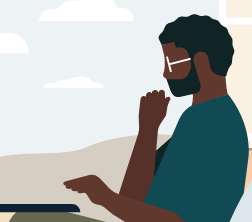
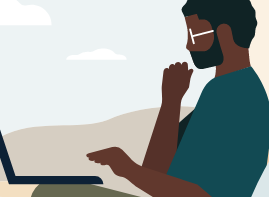
se agregaron varias mejoras en el login y proceso de la cookie

Changed region(s): [[0.0, 0.0, 1.0, 1.0]]

diff --git a/app/ultrabot/ultra_bot.py b/app/ultrabot/ultra_bot.py
@@ -77,7 +77,7 @@ def wait_for_linkedin_detected(max_attempts=5, wait_time=1, confidence=0.7):
     Returns:
         bool: True si la imagen está presente, False si no se encuentra después de todos los intentos
     """
-    linkedin_image = "app/ultrabot/images/accionesVentana/linkedinDetected.PNG"
+    linkedin_image = "app/ultrabot/images/accionesVentana/linkedinDetected.png"
     
     for attempt in range(max_attempts):
         if find_image(linkedin_image, confidence=confidence):
@@ -101,7 +101,7 @@ def check_welcome_screen_visible(max_attempts=3, wait_time=0.5, confidence=0.7):
     Returns:
         bool: True si la pantalla de bienvenida está visible (login falló), False si no
     """
-    welcome_image = "app/ultrabot/images/accionesVentana/welcomeUltra.PNG"
+    welcome_image = "app/ultrabot/images/accionesVentana/WelcomeUltra.png"
     
     for attempt in range(max_attempts):
         if find_image(welcome_image, confidence=confidence):
@@ -158,6 +158,7 @@ def login_with_ultra_credentials():
     Returns:
         bool: True si el login fue exitoso, False si falló después de 5 intentos
     """
+    print("🔐 Iniciando proceso de login...")
     # 🧩 Flujo normal de login
     credentials = get_ultra_credentials()
     if not credentials:
@@ -174,6 +175,7 @@ def login_with_ultra_credentials():
     # Intentar login hasta 5 veces
     max_attempts = 5
     for login_attempt in range(max_attempts):
+        print(f"🔄 Intento de login {login_attempt + 1}/{max_attempts}...")
         try:
             # Realizar el proceso de login
             if not _perform_login_attempt(email, password):
@@ -193,9 +195,11 @@ def login_with_ultra_credentials():
             # Verificar si welcomeUltra.PNG está visible (indica que el login falló)
             if not check_welcome_screen_visible(max_attempts=3, wait_time=0.5, confidence=0.7):
                 # Login exitoso (welcomeUltra.PNG no está visible)
+                print("✅ Login exitoso")
                 return True
             
             # Si llegamos aquí, el login falló (welcomeUltra.PNG está visible)
+            print(f"❌ Login falló en intento {login_attempt + 1}, reintentando...")
             # Si no es el último intento, cerrar ventana y reintentar
             if login_attempt < max_attempts - 1:
                 click_coordinates(1339, 10)
@@ -214,6 +218,7 @@ def login_with_ultra_credentials():
             continue
     
     # Si llegamos aquí, todos los intentos fallaron
+    print("❌ Login falló después de 5 intentos")
     messagebox.showerror(
         "Error de login",
         "No se pudo completar el login después de 5 intentos.\n\nVerifica tus credenciales y que Ultra esté funcionando correctamente."
@@ -922,22 +927,28 @@ class UltraBotThread(threading.Thread):
             MAX_ITERATIONS = 16
             TIEMPO_ESPERA = 7200
 
+        print(f"⚙ Configuración: {MAX_ITERATIONS} iteraciones, {TIEMPO_ESPERA}s de espera")
         iteration_count = 0
 
         #! Funciona bien
 
+        print("🗑 Limpiando base de datos...")
         clear_database()
+        print(f"📡 Obteniendo {MAX_ITERATIONS} cuentas del servidor...")
         accounts = fetch_accounts_from_server(MAX_ITERATIONS)
         
         if not accounts:
             messagebox.showerror("Error", "No se pudieron obtener cuentas del servidor. Verifica tu conexión y credenciales.")
             return
         
+        print(f"✅ Se obtuvieron {len(accounts)} cuentas del servidor")
         save_cookies_to_db(accounts)
 
         while self.running:
             
             if iteration_count >= MAX_ITERATIONS:
+                print(f"📊 Iteración {iteration_count}/{MAX_ITERATIONS} alcanzada, iniciando proceso de tabs...")
+                print("▶ Iniciando todas las tabs...")
                 click_europa_boton()
                 time.sleep(1)
                 click_europa_boton2()
@@ -954,6 +965,7 @@ class UltraBotThread(threading.Thread):
                     click_acept_actionTabs()
 
                 tiempo_por_parte = TIEMPO_ESPERA // 4
+                print(f"⏳ Esperando {tiempo_por_parte}s por parte (total: {TIEMPO_ESPERA}s)...")
                 time.sleep(tiempo_por_parte)
                 
                 # Constantes para el manejo de errores de LinkedIn
@@ -962,6 +974,7 @@ class UltraBotThread(threading.Thread):
                 COORD_ERROR_CLOSE = (915, 438)
                 
                 for parte in range(3):
+                    print(f"  📍 Parte {parte + 1}/3 del proceso...")
                     kill_ultra_processes(show_confirmation=False)
                     click_coordinates(1339, 10)
                     time.sleep(3) 
@@ -992,6 +1005,7 @@ class UltraBotThread(threading.Thread):
                 click_europa_boton2()
                 
 
+                print("⏹ Deteniendo todas las tabs...")
                 click_stop_all_tabs()  # ⏹ Detener todas las pestañas
                 time.sleep(2)
 
@@ -1000,6 +1014,7 @@ class UltraBotThread(threading.Thread):
                     click_acept_stop_actionTabs()
                     time.sleep(2)
 
+                print(f"🗑 Cerrando {MAX_ITERATIONS} ventanas...")
                 time.sleep(2)
                 for _ in range(MAX_ITERATIONS):
                     click_close_window()
@@ -1008,8 +1023,10 @@ class UltraBotThread(threading.Thread):
                 click_coordinates(1339, 10)
                 time.sleep(5)
                 
+                print("🔪 Eliminando procesos de Ultra...")
                 processes_killed = kill_ultra_processes(show_confirmation=False)
                 
+                print("🗑 Eliminando cache de Ultra...")
                 cache_deleted = False
                 max_cache_attempts = 3
                 
@@ -1017,8 +1034,10 @@ class UltraBotThread(threading.Thread):
                     cache_deleted = handle_delete_ultra_folder(show_confirmation=False, max_wait_time=45)
                     
                     if cache_deleted:
+                        print("✅ Cache eliminada exitosamente")
                         break
                     else:
+                        print(f"⚠ Intento {cache_attempt + 1}/{max_cache_attempts} de eliminar cache falló")
                         if cache_attempt < max_cache_attempts - 1:
                             time.sleep(5)
                             kill_ultra_processes(show_confirmation=False)
@@ -1027,10 +1046,12 @@ class UltraBotThread(threading.Thread):
                     messagebox.showerror("Error", "No se pudo eliminar la cache de Ultra después de 3 intentos. El proceso se detendrá.")
                     break
                 
+                print("🔄 Reintentando login después de limpieza...")
                 max_restart_attempts = 3
                 login_successful = False
                 
                 for restart_attempt in range(max_restart_attempts):
+                    print(f"  🔄 Intento de reinicio {restart_attempt + 1}/{max_restart_attempts}...")
                     if click_ultra_logo():
                         time.sleep(15)
                         if wait_for_login_interface(max_attempts=3, wait_time=15):
@@ -1059,6 +1080,7 @@ class UltraBotThread(threading.Thread):
                     messagebox.showerror("Error", "No se pudo completar el proceso de login después de varios intentos. Verifica que Ultra esté funcionando correctamente.")
                     break
                 
+                print("🔄 Reiniciando ciclo...")
                 clear_database()
                 accounts = fetch_accounts_from_server(MAX_ITERATIONS)
                 
@@ -1066,6 +1088,7 @@ class UltraBotThread(threading.Thread):
                     messagebox.showerror("Error", "No se pudieron obtener cuentas del servidor. Verifica tu conexión y credenciales.")
                     break
                 
+                print(f"✅ Se obtuvieron {len(accounts)} nuevas cuentas del servidor")
                 save_cookies_to_db(accounts)
                 
                 iteration_count = 0  # 🔄 Resetear contador para que vuelva a iniciar
@@ -1088,8 +1111,10 @@ class UltraBotThread(threading.Thread):
             
             # Validar que linkedinDetected.PNG esté presente antes de agregar cookie
             if not wait_for_linkedin_detected(max_attempts=5, wait_time=1, confidence=0.7):
+                print(f"⚠ LinkedIn no detectado para cookie ID {last_cookie_id}, saltando...")
                 continue
             
+            print(f"🍪 Procesando cookie ID {last_cookie_id}...")
             click_add_cookie()
             time.sleep(2)
             if not self.running:
@@ -1102,8 +1127,10 @@ class UltraBotThread(threading.Thread):
             time.sleep(0.5)
             
             if not find_and_click_input():
+                print(f"❌ Error al procesar cookie ID {last_cookie_id}")
                 last_cookie_id += 1
                 continue
+            print(f"✅ Cookie ID {last_cookie_id} procesada exitosamente")
             time.sleep(5)
             
 
@@ -1145,12 +1172,15 @@ class UltraBotRepetidasThread(threading.Thread):
         
     def run(self):
         global last_cookie_id
+        print("🚀 Iniciando UltraBot Repetidas...")
         time.sleep(3)
         
+        print("🖱 Buscando logo de Ultra...")
         if not click_ultra_logo(max_attempts=5, delay_between_attempts=2):
             messagebox.showerror("Error", "No se pudo hacer clic en el logo de Ultra después de varios intentos. Verifica que Ultra esté disponible.")
             return
         
+        print("⏳ Esperando carga de Ultra...")
         time.sleep(15)
         # click_europa_boton()
         # time.sleep(1)
@@ -1176,30 +1206,37 @@ class UltraBotRepetidasThread(threading.Thread):
             REPETITIONS_COUNT = 3
             TIEMPO_ESPERA = 7200
 
+        print(f"⚙ Configuración Repetidas: {ACCOUNTS_TO_REPEAT} cuentas, {REPETITIONS_COUNT} repeticiones, {TIEMPO_ESPERA}s de espera")
+        print("🗑 Limpiando base de datos...")
         clear_database()
+        print(f"📡 Obteniendo {ACCOUNTS_TO_REPEAT} cuentas del servidor...")
         accounts = fetch_accounts_from_server(ACCOUNTS_TO_REPEAT)
         
         if not accounts:
             messagebox.showerror("Error", "No se pudieron obtener cuentas del servidor. Verifica tu conexión y credenciales.")
             return
         
+        print(f"✅ Se obtuvieron {len(accounts)} cuentas del servidor")
         save_cookies_to_db(accounts)
 
         while self.running:
             # 🔄 Procesar cada cuenta y repetirla la cantidad de veces configurada
             last_cookie_id = 1
             total_accounts = len(accounts)
+            print(f"🔄 Procesando {total_accounts} cuentas con {REPETITIONS_COUNT} repeticiones cada una...")
             
             for account_index in range(total_accounts):
                 if not self.running:
                     break
                 
                 current_cookie_id = account_index + 1
+                print(f"📋 Procesando cuenta {current_cookie_id}/{total_accounts}...")
                 
                 for repetition in range(REPETITIONS_COUNT):
                     if not self.running:
                         break
                     
+                    print(f"  🔁 Repetición {repetition + 1}/{REPETITIONS_COUNT} de cuenta {current_cookie_id}...")
                     click_add_account()
                     time.sleep(10)
                     if not self.running:
@@ -1213,8 +1250,10 @@ class UltraBotRepetidasThread(threading.Thread):
                     
                     # Validar que linkedinDetected.PNG esté presente antes de agregar cookie
                     if not wait_for_linkedin_detected(max_attempts=5, wait_time=1, confidence=0.7):
+                        print(f"  ⚠ LinkedIn no detectado para cuenta {current_cookie_id}, repetición {repetition + 1}, saltando...")
                         continue
                     
+                    print(f"  🍪 Agregando cookie para cuenta {current_cookie_id}, repetición {repetition + 1}...")
                     click_add_cookie()
                     time.sleep(2)
                     if not self.running:
@@ -1227,14 +1266,17 @@ class UltraBotRepetidasThread(threading.Thread):
                     time.sleep(0.5)
                     
                     if not find_and_click_input(cookie_id_override=current_cookie_id):
+                        print(f"  ❌ Error al procesar cookie para cuenta {current_cookie_id}, repetición {repetition + 1}")
                         continue
                     
+                    print(f"  ✅ Cookie procesada exitosamente para cuenta {current_cookie_id}, repetición {repetition + 1}")
                     time.sleep(5)
 
             click_europa_boton()
             time.sleep(1)
             click_europa_boton2()
 
+            print(f"▶ Iniciando todas las tabs y esperando {TIEMPO_ESPERA}s...")
             time.sleep(2)
             click_start_all_tabs()
             time.sleep(2)
@@ -1247,6 +1289,7 @@ class UltraBotRepetidasThread(threading.Thread):
                 click_acept_actionTabs()
 
             time.sleep(TIEMPO_ESPERA)
+            print("⏹ Tiempo de espera completado, deteniendo tabs...")
 
             # 🛑 Detener todas las pestañas
             click_europa_boton()
@@ -1264,6 +1307,7 @@ class UltraBotRepetidasThread(threading.Thread):
 
             time.sleep(2)
             total_windows = ACCOUNTS_TO_REPEAT * REPETITIONS_COUNT
+            print(f"🗑 Cerrando {total_windows} ventanas...")
             for _ in range(total_windows):
                 click_close_window()
                 time.sleep(0.5)
@@ -1271,8 +1315,10 @@ class UltraBotRepetidasThread(threading.Thread):
             click_coordinates(1339, 10)
             time.sleep(5)
             
+            print("🔪 Eliminando procesos de Ultra...")
             processes_killed = kill_ultra_processes(show_confirmation=False)
             
+            print("🗑 Eliminando cache de Ultra...")
             cache_deleted = False
             max_cache_attempts = 3
             
@@ -1280,8 +1326,10 @@ class UltraBotRepetidasThread(threading.Thread):
                 cache_deleted = handle_delete_ultra_folder(show_confirmation=False, max_wait_time=45)
                 
                 if cache_deleted:
+                    print("✅ Cache eliminada exitosamente")
                     break
                 else:
+                    print(f"⚠ Intento {cache_attempt + 1}/{max_cache_attempts} de eliminar cache falló")
                     if cache_attempt < max_cache_attempts - 1:
                         time.sleep(5)
                         kill_ultra_processes(show_confirmation=False)
@@ -1290,10 +1338,12 @@ class UltraBotRepetidasThread(threading.Thread):
                 messagebox.showerror("Error", "No se pudo eliminar la cache de Ultra después de 3 intentos. El proceso se detendrá.")
                 break
             
+            print("🔄 Reintentando login después de limpieza...")
             max_restart_attempts = 3
             login_successful = False
             
             for restart_attempt in range(max_restart_attempts):
+                print(f"  🔄 Intento de reinicio {restart_attempt + 1}/{max_restart_attempts}...")
                 if click_ultra_logo():
                     time.sleep(15)
                     if wait_for_login_interface(max_attempts=3, wait_time=15):
@@ -1322,6 +1372,7 @@ class UltraBotRepetidasThread(threading.Thread):
                 messagebox.showerror("Error", "No se pudo completar el proceso de login después de varios intentos. Verifica que Ultra esté funcionando correctamente.")
                 break
             
+            print("🔄 Reiniciando ciclo de repetidas...")
             clear_database()
             accounts = fetch_accounts_from_server(ACCOUNTS_TO_REPEAT)
             
@@ -1329,6 +1380,7 @@ class UltraBotRepetidasThread(threading.Thread):
                 messagebox.showerror("Error", "No se pudieron obtener cuentas del servidor. Verifica tu conexión y credenciales.")
                 break
             
+            print(f"✅ Se obtuvieron {len(accounts)} nuevas cuentas del servidor")
             save_cookies_to_db(accounts)
 
 
